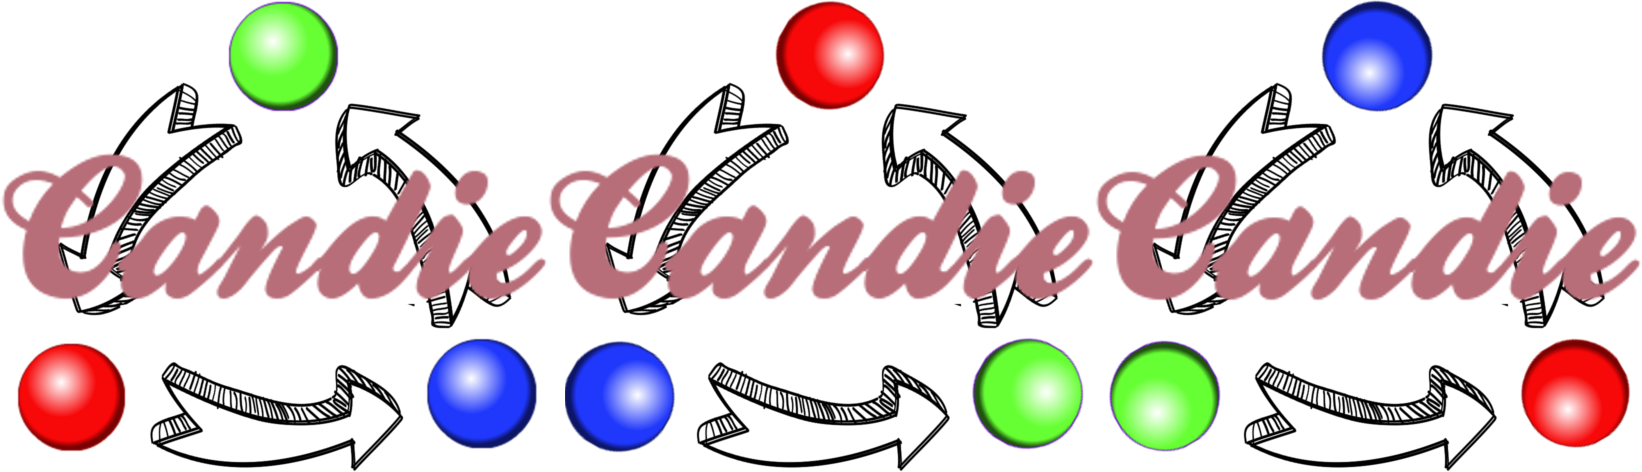
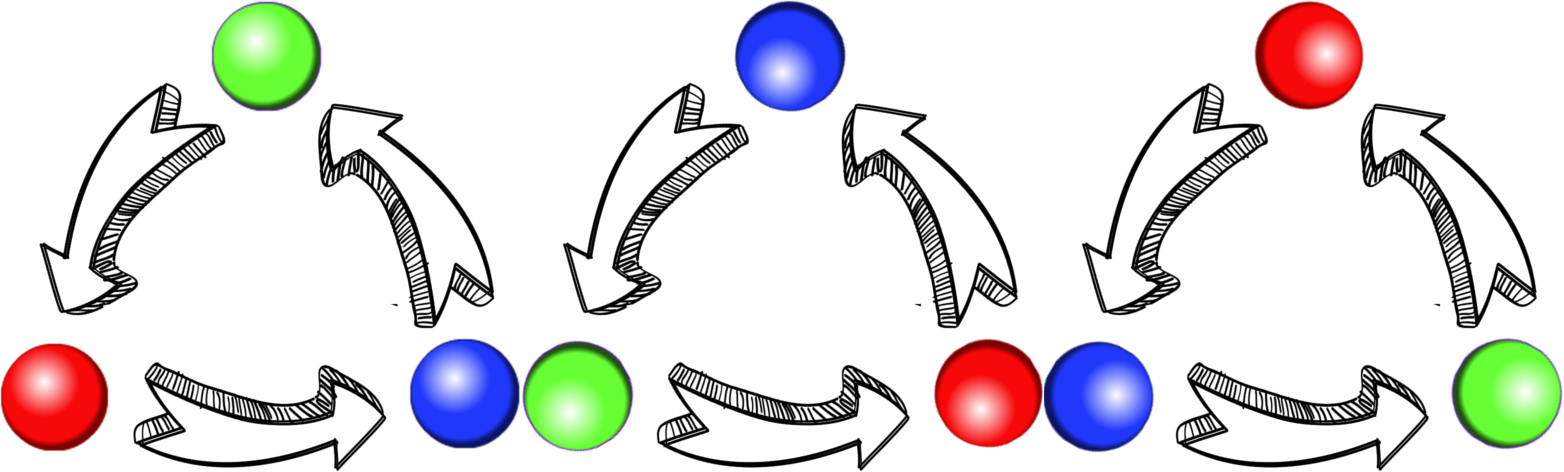
improve landing page

diff --git a/client/js/start.js b/client/js/start.js
@@ -10,24 +10,38 @@ start.prototype = {
 		 game.load.image('gfood', '/assets/gfood.png');
 		 game.load.image('bfood', '/assets/bfood.png');
 		 game.load.image('backdrop','/assets/backdrop.png');
-		 game.load.spritesheet('intro','/assets/intro_sheet.png',547,472,3);
+		 game.load.image('intro_back','/assets/back.jpg');
+		 game.load.image('intro_text','/assets/text.png');
+		 game.load.spritesheet('intro','/assets/intro_sheet.png',521,472,3);
 		 game.load.image('round-rect','/assets/rect.png');
+		 game.load.image('gradient','/assets/grad.png');
 	},
 
 	create: function() {
 		game.add.plugin(PhaserInput.Plugin);
 		game.world.setBounds(0, 0, document.documentElement.clientWidth, document.documentElement.clientHeight); // bounds of the world
+		var back_intro = game.add.tileSprite(0,0,document.documentElement.clientWidth, document.documentElement.clientHeight,'intro_back');
+		back_intro.scale.setTo(1.2);
+		var grad = game.add.sprite(document.documentElement.clientWidth/2,0,'gradient');
+		grad.anchor.set(0.5,0);
+		grad.height = document.documentElement.clientHeight;
+		grad.width = document.documentElement.clientWidth*1.4;
 		// game.physics.startSystem(Phaser.Physics.P2JS);
 		// game.stage.disableVisibilityChange = true;
 		// game.physics.p2.setImpactEvents(true);
 		// game.physics.p2.restitution = 1;
 		if (socket) {socket.close()};
 		socket = io.connect();
+
 		var intro = game.add.sprite(document.documentElement.clientWidth/2, 10, 'intro');
 		intro.anchor.set(0.5,0);
 		intro.scale.setTo(0.75*document.documentElement.clientHeight/intro.height);
 		intro.animations.add('flicker');
-		intro.animations.play('flicker',0.5,true);
+		intro.animations.play('flicker',3,true);
+
+		var text_intro = game.add.sprite(intro.x, intro.y + intro.height/2 ,'intro_text');
+		text_intro.anchor.set(0.5);
+		text_intro.scale.setTo(intro.width/text_intro.width);
 
 		game.stage.backgroundColor = 0xc0aeef;
 		// game.add.tileSprite(0,0,3000,3000,'backdrop');
